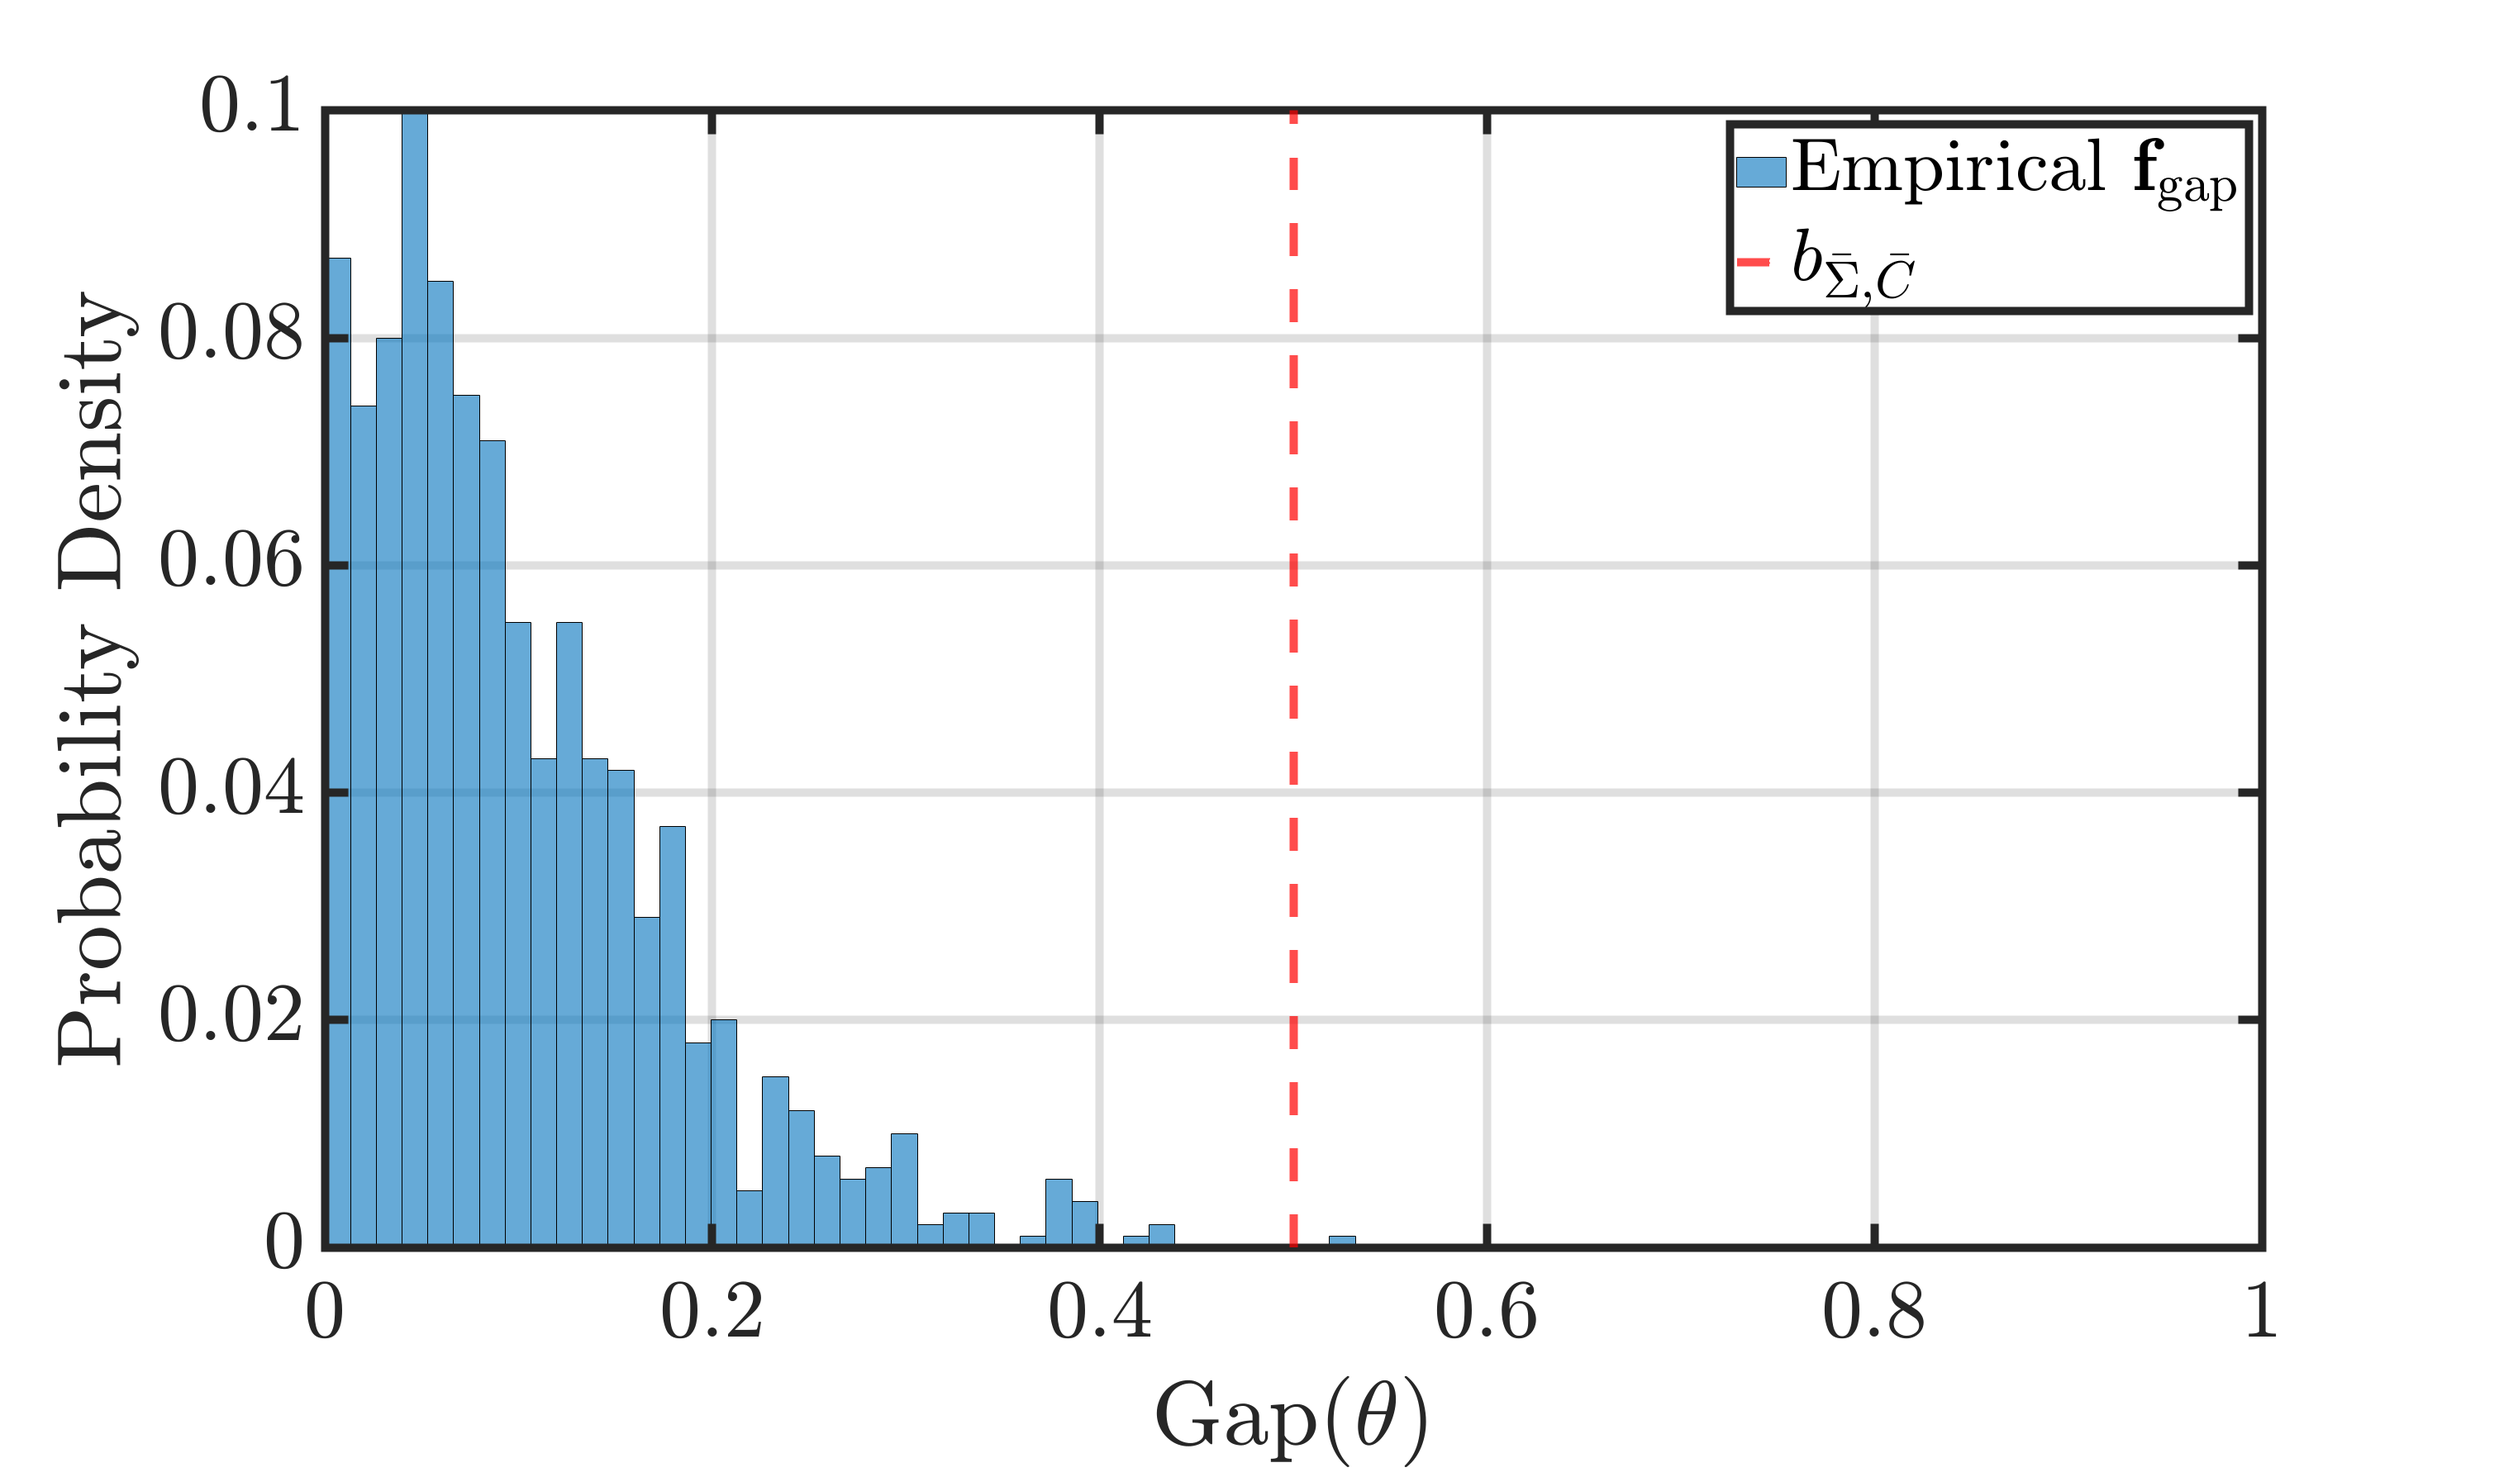
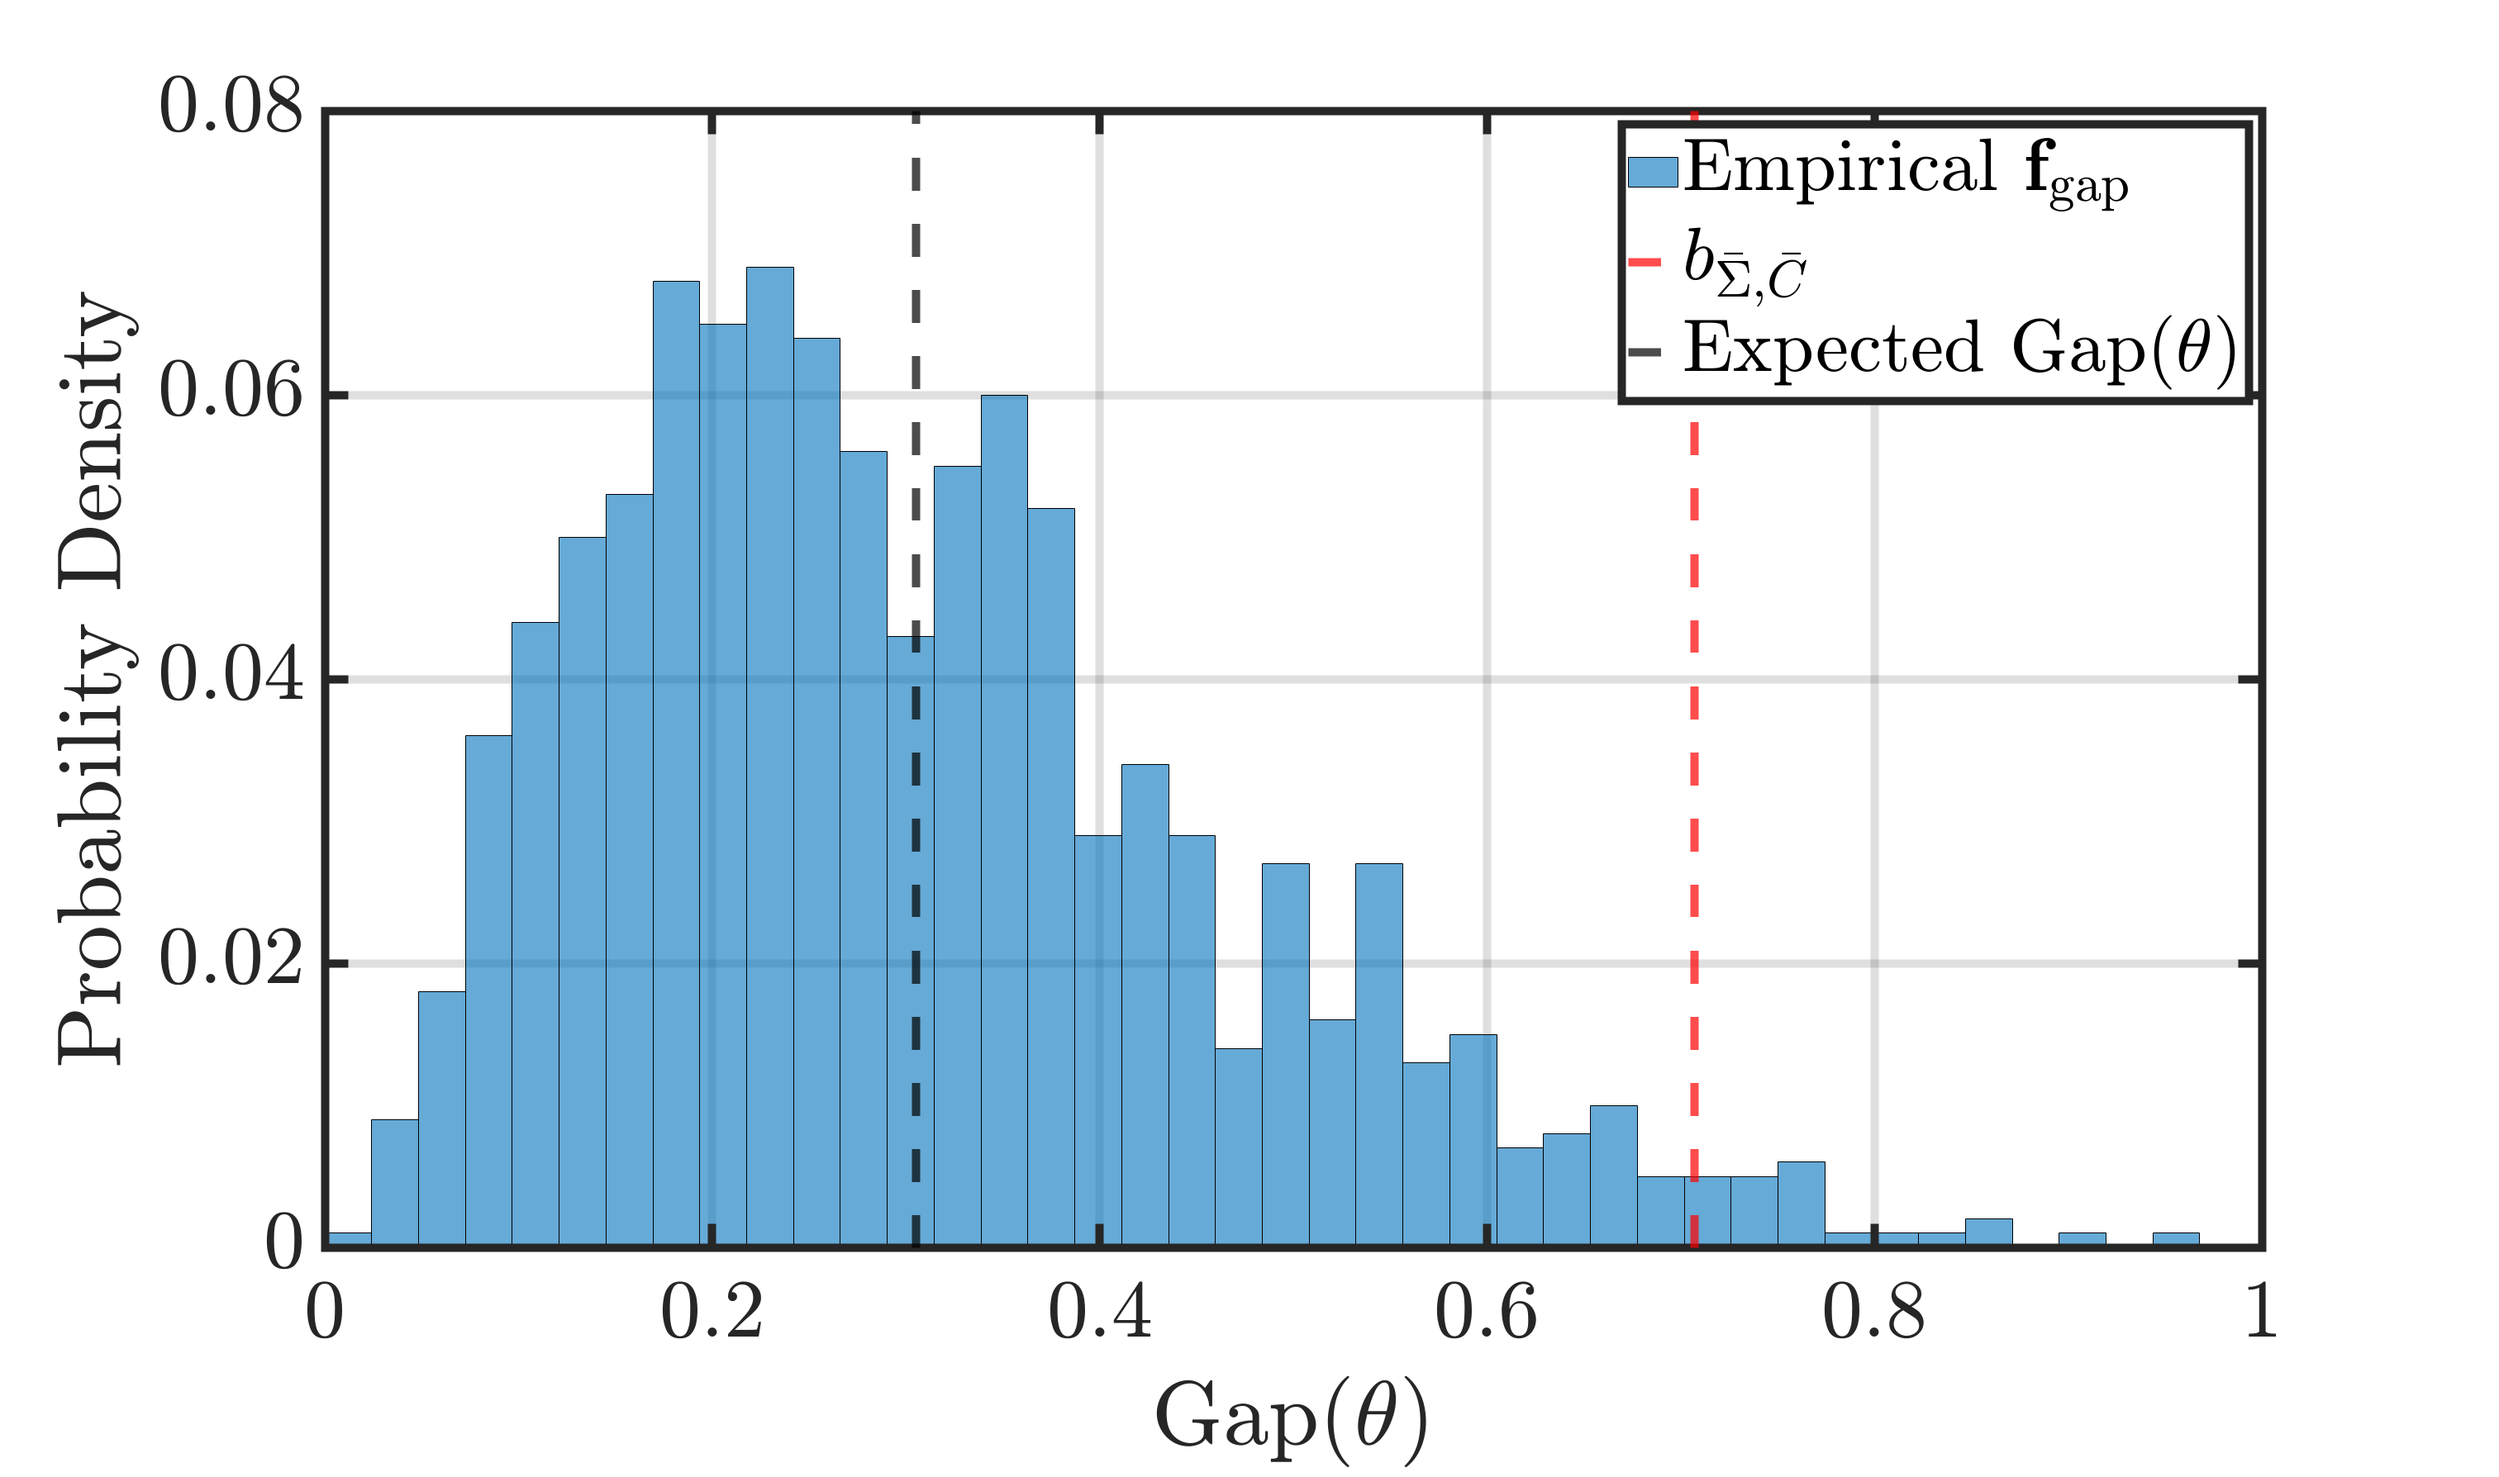
many changes

Changed region(s): [[0.0622, 0.0615, 0.9015, 0.8613], [0.0622, 0.0308, 0.1243, 0.0923], [0.4974, 0.0615, 0.5284, 0.0923]]

diff --git a/probabilisticGapRobustStability.m b/probabilisticGapRobustStability.m
@@ -1,15 +1,17 @@
 %%%%%%%%%%%%%%%%%%%%%%%%%%%%%%%%%%%%%%%%%%%%%%%%%%%%%%%%%%%%%%%%%%%%%%%%%%%
 %%%%%%%%%%%%%%%%%%%%%%%%%%%%%%%%%%%%%%%%%%%%%%%%%%%%%%%%%%%%%%%%%%%%%%%%%%%
 %
-% This code simulates robust stability of gap metric between state-space systems under 
-% random parameter θ
+% This code simulates to obtain probability of robust stability using
+% gap metric between LTI dynamical systems under random parameter θ
 %
-% Copyrights Authors: Venkatraman Renganathan 
-%                     Cranfield University, United Kingdom.
+% Copyrights @ 2025
+% 
+% Authors: Venkatraman Renganathan 
+%          Cranfield University, United Kingdom.
 %
-% Emails: v.renganathan@cranfield.ac.uk
+% Email: v.renganathan@cranfield.ac.uk
 %
-% Date last updated: 9 July, 2025.
+% Date last updated: 10 July, 2025.
 %
 %%%%%%%%%%%%%%%%%%%%%%%%%%%%%%%%%%%%%%%%%%%%%%%%%%%%%%%%%%%%%%%%%%%%%%%%%%%
 %%%%%%%%%%%%%%%%%%%%%%%%%%%%%%%%%%%%%%%%%%%%%%%%%%%%%%%%%%%%%%%%%%%%%%%%%%%
@@ -33,9 +35,13 @@ D = 0;
 nominalSystem = tf(ss(A, B, C, D));
 
 % Set the parameters for simulation
-numSamples = 1000;              % Number of θ samples
-meanTheta = 0.0;                % Mean of θ
+p = 2;                          % Dimension of θ 
+numSamples = 10000;             % Number of θ samples
+meanTheta = [0.50 -0.25];       % Mean of θ
 standardDeviationTheta = 0.25;  % Standard Deviation of θ
+
+% Set covariance of theta
+covarianceTheta = standardDeviationTheta^(2)*eye(p); 
 
 % Place holder for storing gap and theta values
 gapValues = zeros(1, numSamples);
@@ -46,38 +52,50 @@ stableFlag = 0;
 
 % Compute gap for all numSamples of theta
 for i = 1:numSamples
-
-    % Loop until you set the stable flag = 1 (find a stable system)
-    while(stableFlag == 0)
-
-        % Sample θ from Gaussian distribution
-        theta = normrnd(meanTheta, standardDeviationTheta);
     
-        % Perturb the A matrix - Small perturbation around stable pole
-        A_perturb = A + theta;        
-        
-        % If perturbed system is stable, exit the while loop
-        if A_perturb < 0             
-            stableFlag = 1;
-            break;
-        end
-    end
+    % % Loop until you set the stable flag = 1 (find a stable system)
+    % while(stableFlag == 0)
+    % 
+    %     % Sample θ from Gaussian distribution
+    %     theta = mvnrnd(meanTheta, covarianceTheta);
+    % 
+    %     % Perturb the A matrix - Small perturbation around stable pole
+    %     A_perturb = A + theta(1);   
+    % 
+    %     % If perturbed system is stable, exit the while loop
+    %     if (A_perturb < 0) 
+    %         % Perturb C matrix
+    %         C_perturb = C + theta(2);
+    %         % Set stableFlag as 1 (we have found a stable perturbedSystem)
+    %         stableFlag = 1;
+    %         break;
+    %     end
+    % end
+
+    % Sample θ from Gaussian distribution
+    theta = mvnrnd(meanTheta, covarianceTheta);
+
+    % Perturb the A matrix - Small perturbation around stable pole
+    A_perturb = A + theta(1);   
+
+    % Perturb C matrix
+    C_perturb = C + theta(2);
 
     % Form the tranfer function from state space of the perturbed model
-    perturbedSystem = tf(ss(A_perturb, B, C, D));
+    perturbedSystem = tf(ss(A_perturb, B, C_perturb, D));
 
     % Compute gap with Matlab inbuilt gapmetric command
     [gapValues(i),~] = gapmetric(nominalSystem, perturbedSystem);
     
     % Store the theta values
-    thetaNorms(i) = norm(theta);
+    thetaNorms(i) = norm(theta - meanTheta);
 
 end
 
 
-%% Compute the Empirical and theoretical stats
+%% Compute & compare the empirical and theoretical stats
 
-% Find the expected gapvalue
+% Find the empirical expected gapvalue
 expectedGap = mean(gapValues);
 
 % Estimate Lipschitz constant of gap as Gap/theta_norm
@@ -86,23 +104,26 @@ gapLipschitzConstant = mean(gapValues ./ thetaNorms);
 % sub-Gaussian variance proxy of Gap(θ)
 sigmaGap = gapLipschitzConstant * standardDeviationTheta;
 
-% Controller stabilizing nominal system (which is already stable)
-nominalController = 1; 
+% Set the desired closed loop pole location
+desiredPoleLocation = -2;
 
-% Form Sensitivity & Complementary sensitivity transfer functions
-sensitivityTransferFunction = 1/(1 + nominalSystem*nominalController);
+% Place the pole at desiredPoleLocation & get nominal controller gain
+nominalController = place(A, B, desiredPoleLocation);
 
-% Form the b_pc
-b_PC = norm(1-sensitivityTransferFunction,inf);
+% Get the state space and the transfer function
+nominalControllerStateSpace = ss(nominalController);
 
-% Compute the tolerance
+% Compute the performance measure for nominal plant and controller
+b_PC = compute_bpc(nominalSystem, nominalControllerStateSpace);
+
+% Compute the tolerance (Theorem 6 in Paper)
 epsilonTolerance = b_PC - expectedGap;
 
-% Compute Empirical probability of safety P[Gap < b_PC]
-empiricalRobustStabilityProbability = mean(gapValues < b_PC);
+% Compute Empirical probability of robust stability P[Gap < b_PC]
+empiricalRobustStabilityProbability = sum(gapValues < b_PC)/numSamples;
 
-% Compute Theoretical Lower Bound on probability of safety P[Gap < b_PC]
-lowerBoundRobustStabilityProbability = 1 - exp(-epsilonTolerance^2 / (2 * sigmaGap^2));
+% Compute Theoretical Lower Bound on probability of robust stability P[Gap < b_PC]
+lowerBoundRobustStabilityProbability = 1 - exp(-epsilonTolerance^(2) / (2 * sigmaGap^(2)));
 
 %% Display summary
 fprintf('\n--- Summary of Simulation Results ---\n');
@@ -117,9 +138,10 @@ figure;
 histogram(gapValues, 40, 'Normalization', 'probability', 'FaceAlpha', 0.6);
 hold on;
 xline(b_PC, 'r--', 'LineWidth', 5);
+xline(expectedGap, 'k--', 'LineWidth', 5);
 xlabel('Gap($\theta$)');
 ylabel('Probability Density');
-legend('Empirical $\mathbf{f}_{\mathrm{gap}}$', '$b_{\bar{\Sigma}, \bar{C}}$');
+legend('Empirical $\mathbf{f}_{\mathrm{gap}}$', '$b_{\bar{\Sigma}, \bar{C}}$', 'Expected $\mathrm{Gap}(\theta)$');
 grid on;
 xlim([0, 1]);
 a = findobj(gcf, 'type', 'axes');

diff --git a/coprime_gap_vs_stability.m b/coprime_gap_vs_stability.m
@@ -1,0 +1,63 @@
+
+% coprime_gap_vs_stability.m
+% Plot coprime perturbation norm vs closed-loop stability indicator
+
+clear; clc;
+
+% Nominal plant P(s) = 1 / (s + 1)
+P = tf(1, [1 1]);
+% [N, M] = coprime(P);
+[~,M,N] = rncf(P);
+
+% Controller C(s)
+s = tf('s');
+C = 5 * (s + 2)/(s + 10);
+
+% Compute b_PC using full formula
+G = [P; 1];                        % [P; I]
+L = eye(1) - C*P;
+invL = inv(L);
+W = [-C 1];
+T = G * invL * W;
+b_PC = 1 / hinfnorm(T);
+
+% Simulation parameters
+N_samp = 1000;
+sigma = 0.2;
+L_lip = 2;
+
+coprime_radius = zeros(1, N_samp);
+is_stable = false(1, N_samp);
+
+for i = 1:N_samp
+    eps = sigma * randn(2,1);
+    dN = tf(eps(1), [10 1]);   % stable perturbations
+    dM = tf(eps(2), [10 1]);
+    Np = N + dN;
+    Mp = M + dM;
+
+    try
+        Ptheta = Np / Mp;
+        CL = feedback(Ptheta * C, 1);
+        poles = pole(CL);
+        is_stable(i) = all(real(poles) < 0);
+        d_coprime = [dN; dM];
+        coprime_radius(i) = norm(d_coprime, inf);
+    catch
+        coprime_radius(i) = NaN;
+        is_stable(i) = false;
+    end
+end
+
+% Remove NaNs
+valid = ~isnan(coprime_radius);
+coprime_radius = coprime_radius(valid);
+is_stable = is_stable(valid);
+
+% Plot
+figure;
+scatter(coprime_radius, is_stable, 30, is_stable, 'filled');
+xlabel('Coprime perturbation norm (H_\infty)');
+ylabel('Stabilized (1 = yes, 0 = no)');
+title('Stability vs Coprime Perturbation Radius');
+grid on;

diff --git a/compute_bpc.m b/compute_bpc.m
@@ -4,12 +4,14 @@
 % This function is useful while simulating Probabilistic Robust Control 
 % using random gap metric formulation
 %
-% Copyrights Authors: Venkatraman Renganathan 
-%                     Cranfield University, United Kingdom.
+% Copyrights @ 2025
+% 
+% Authors: Venkatraman Renganathan 
+%          Cranfield University, United Kingdom.
 %
-% Emails: v.renganathan@cranfield.ac.uk
+% Email: v.renganathan@cranfield.ac.uk
 %
-% Date last updated: 9 July, 2025.
+% Date last updated: 10 July, 2025.
 %
 %%%%%%%%%%%%%%%%%%%%%%%%%%%%%%%%%%%%%%%%%%%%%%%%%%%%%%%%%%%%%%%%%%%%%%%%%%%
 %%%%%%%%%%%%%%%%%%%%%%%%%%%%%%%%%%%%%%%%%%%%%%%%%%%%%%%%%%%%%%%%%%%%%%%%%%%

diff --git a/probabilisticGapGuarantees.m b/probabilisticGapGuarantees.m
@@ -3,12 +3,14 @@
 %
 % This code simulates Probabilistic Robust Control Using Gap Metric
 %
-% Copyrights Authors: Venkatraman Renganathan 
-%                     Cranfield University, United Kingdom.
+% Copyrights @ 2025
+% 
+% Authors: Venkatraman Renganathan 
+%          Cranfield University, United Kingdom.
 %
-% Emails: v.renganathan@cranfield.ac.uk
+% Email: v.renganathan@cranfield.ac.uk
 %
-% Date last updated: 9 July, 2025.
+% Date last updated: 10 July, 2025.
 %
 %%%%%%%%%%%%%%%%%%%%%%%%%%%%%%%%%%%%%%%%%%%%%%%%%%%%%%%%%%%%%%%%%%%%%%%%%%%
 %%%%%%%%%%%%%%%%%%%%%%%%%%%%%%%%%%%%%%%%%%%%%%%%%%%%%%%%%%%%%%%%%%%%%%%%%%%
